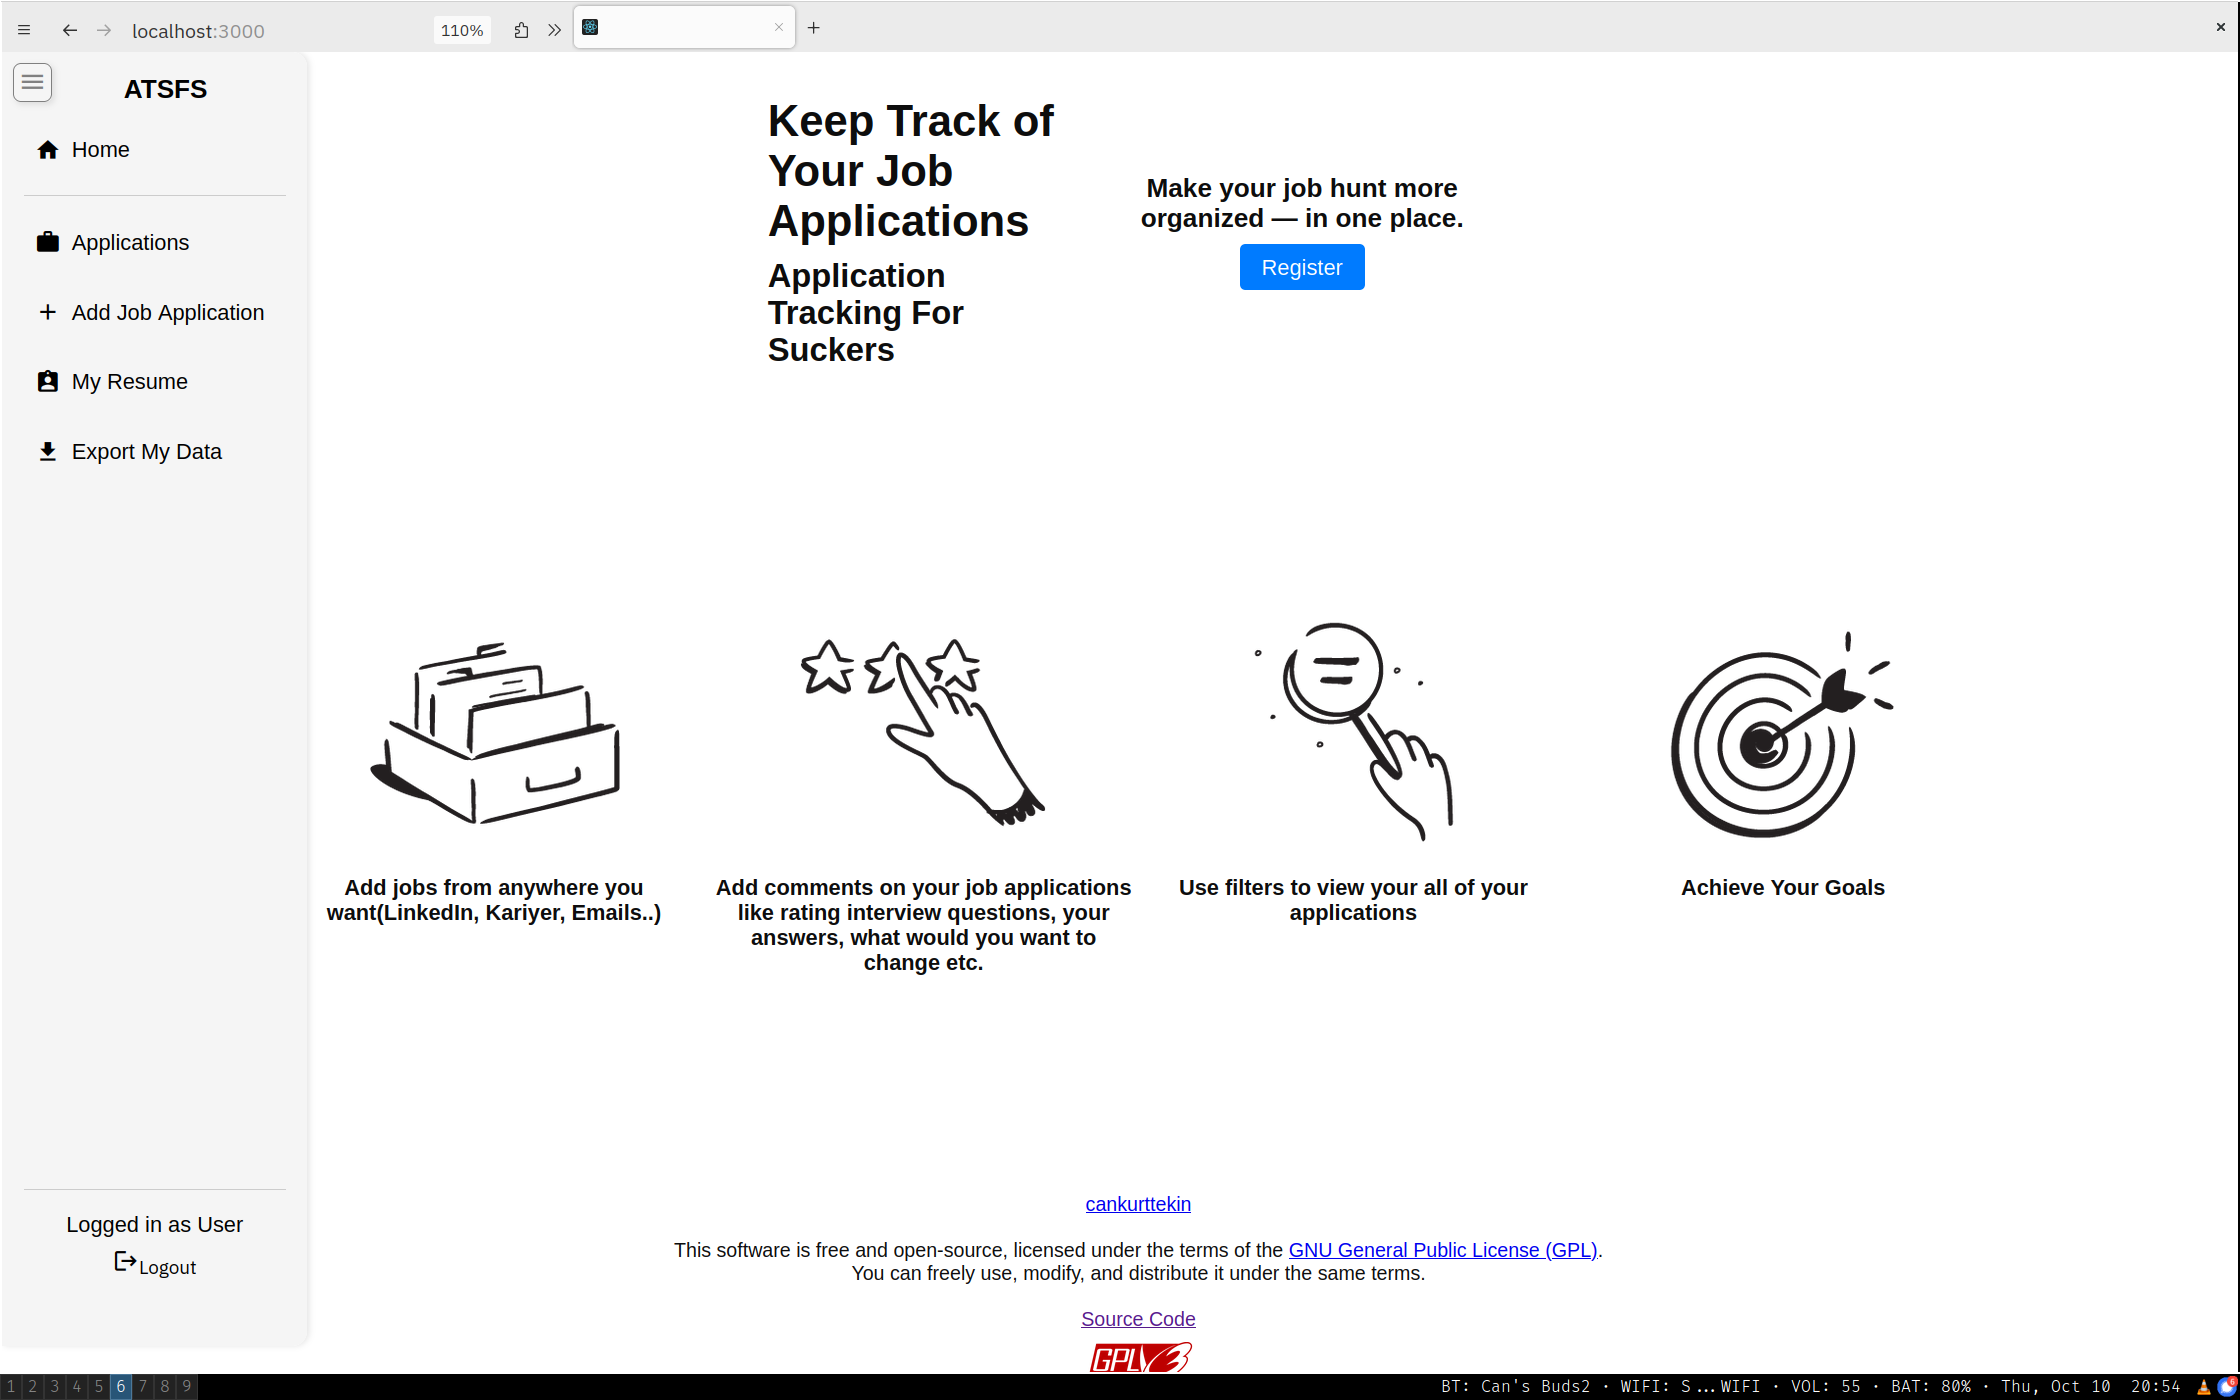
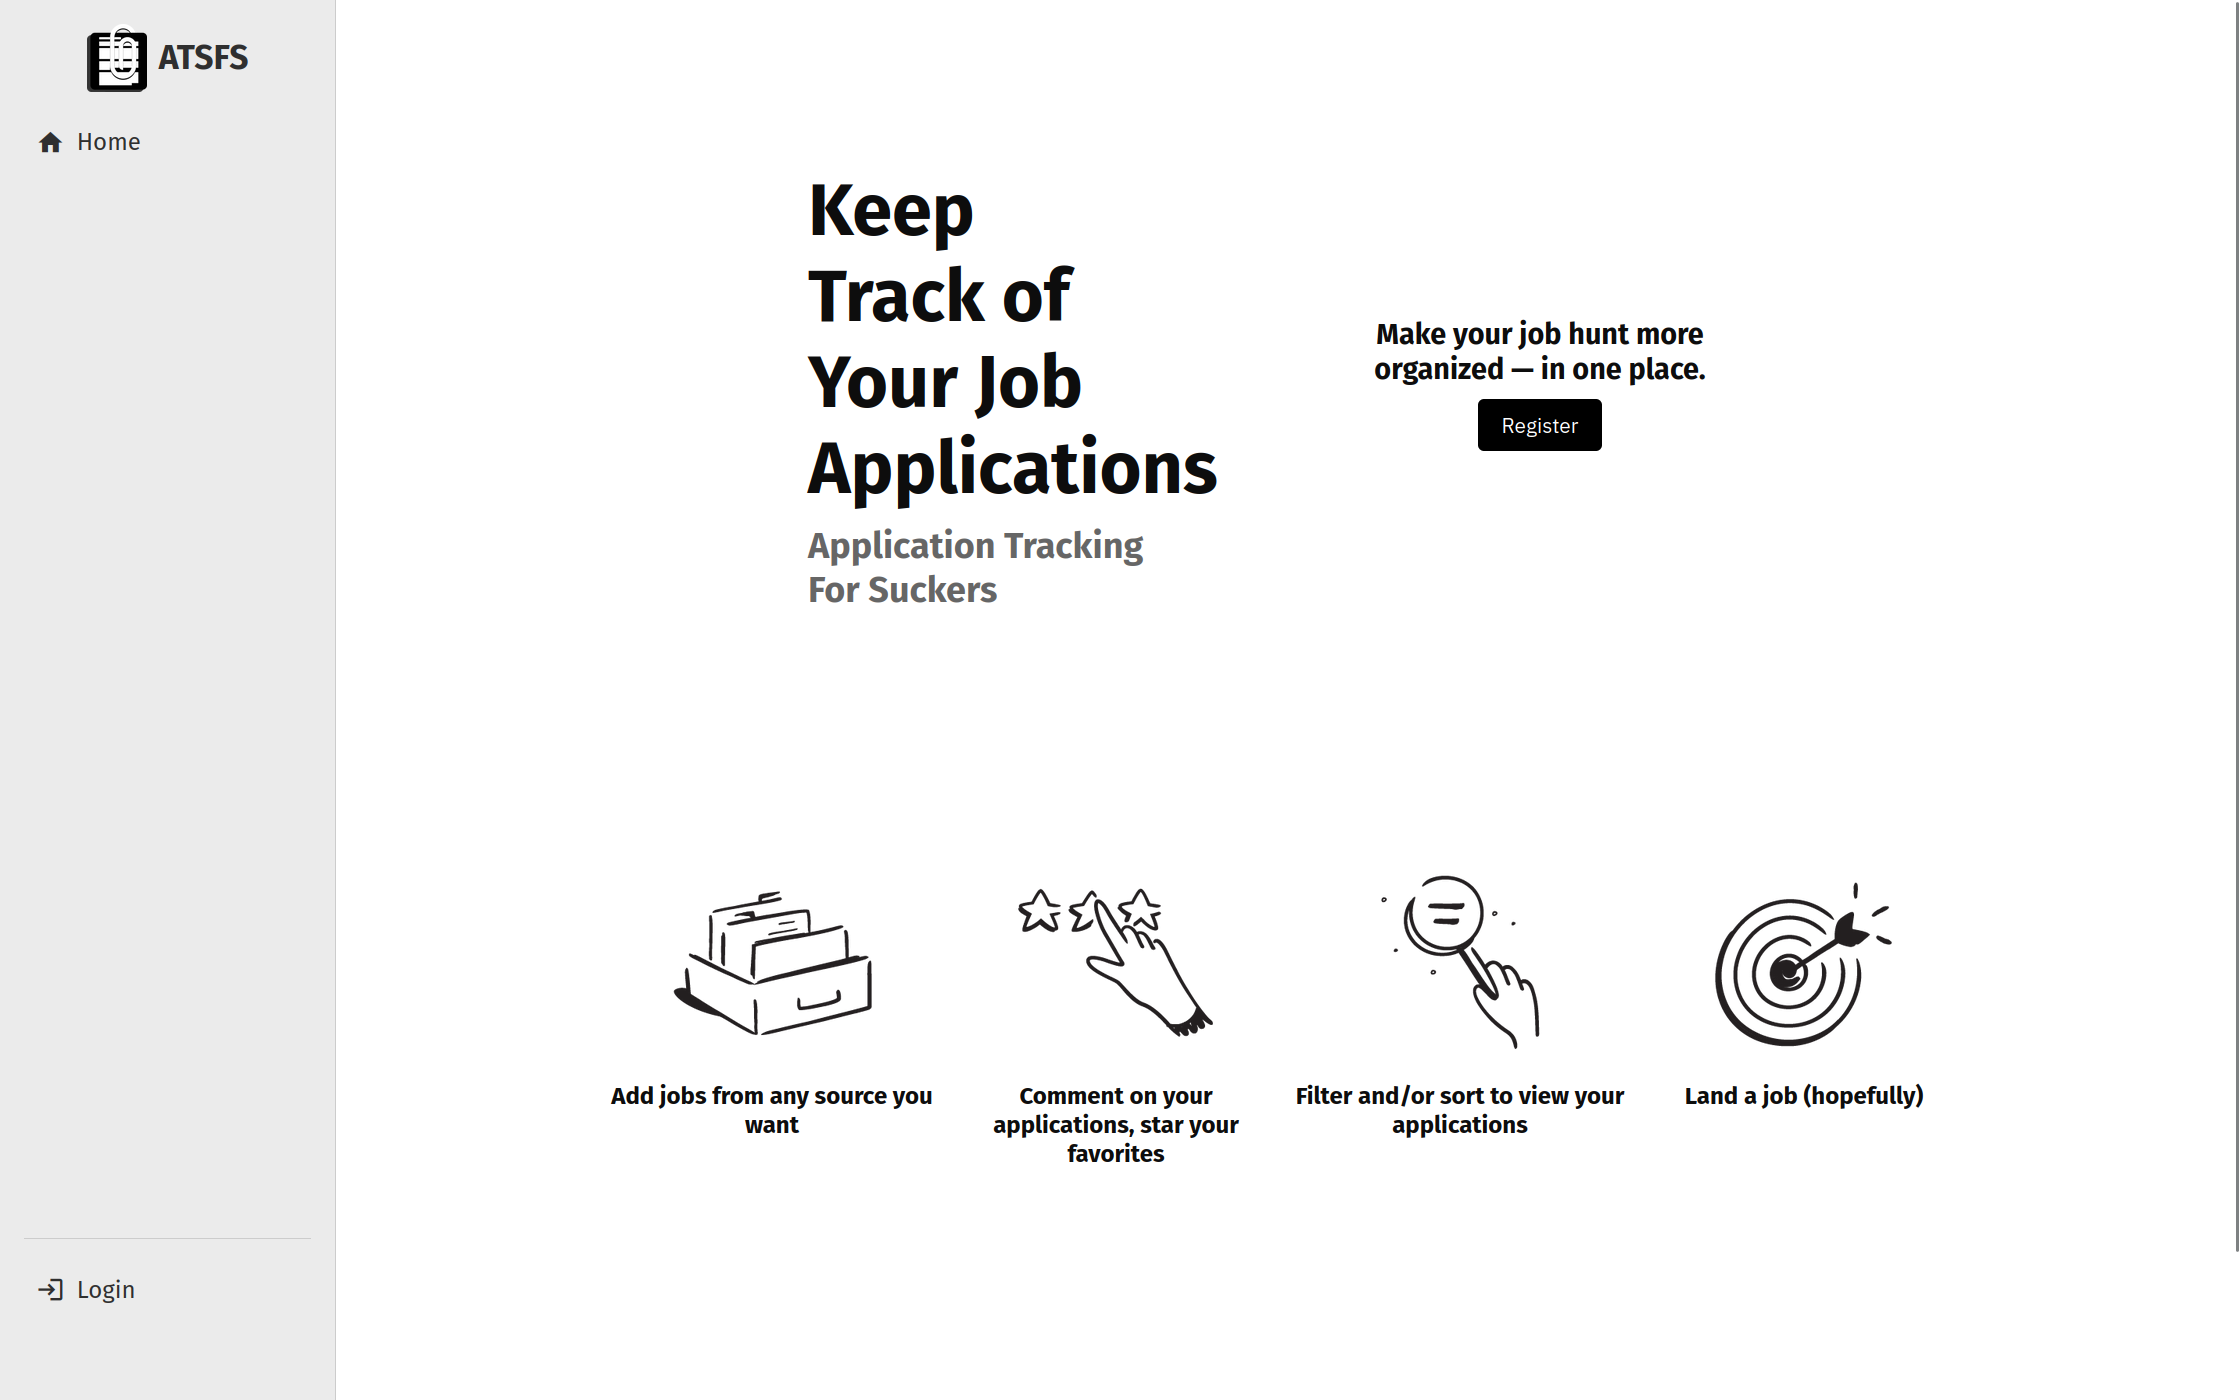
add screenshots

diff --git a/README.md b/README.md
@@ -1,16 +1,28 @@
 # ATSFS
-[frontend](https://github.com/cankurttekin/job-application-tracker/tree/frontend)
-> Kepp track of your job applications in one place
+
+ <p align="center">
+  <img height="64" width="64"  src="/assets/atsfs.png">
+</p>
+
+> Keep Track of Your Job Applications in one place
+
 ## Features
 - Add jobs and details
-- List jobs with status filtering(APPLIED, INTERVIEW, REJECTED, CANCEL...)
-- ...will be listed here
+- Write comments on jobs
+- Filter and sort your applications
+- ...
+
+[job-application-tracker-silk.vercel.app](https://job-application-tracker-silk.vercel.app/)
+<br />
 
 <img src="/assets/screenshot-atsfs-home.png"
 alt="homepage">
 
 <img src="/assets/screenshot-atsfs.png"
-alt="homepage">
+alt="applications">
+
+<img src="/assets/screenshot-atsfs-charts.png"
+alt="graphs">
 
 ## Stack
 - Java 17
